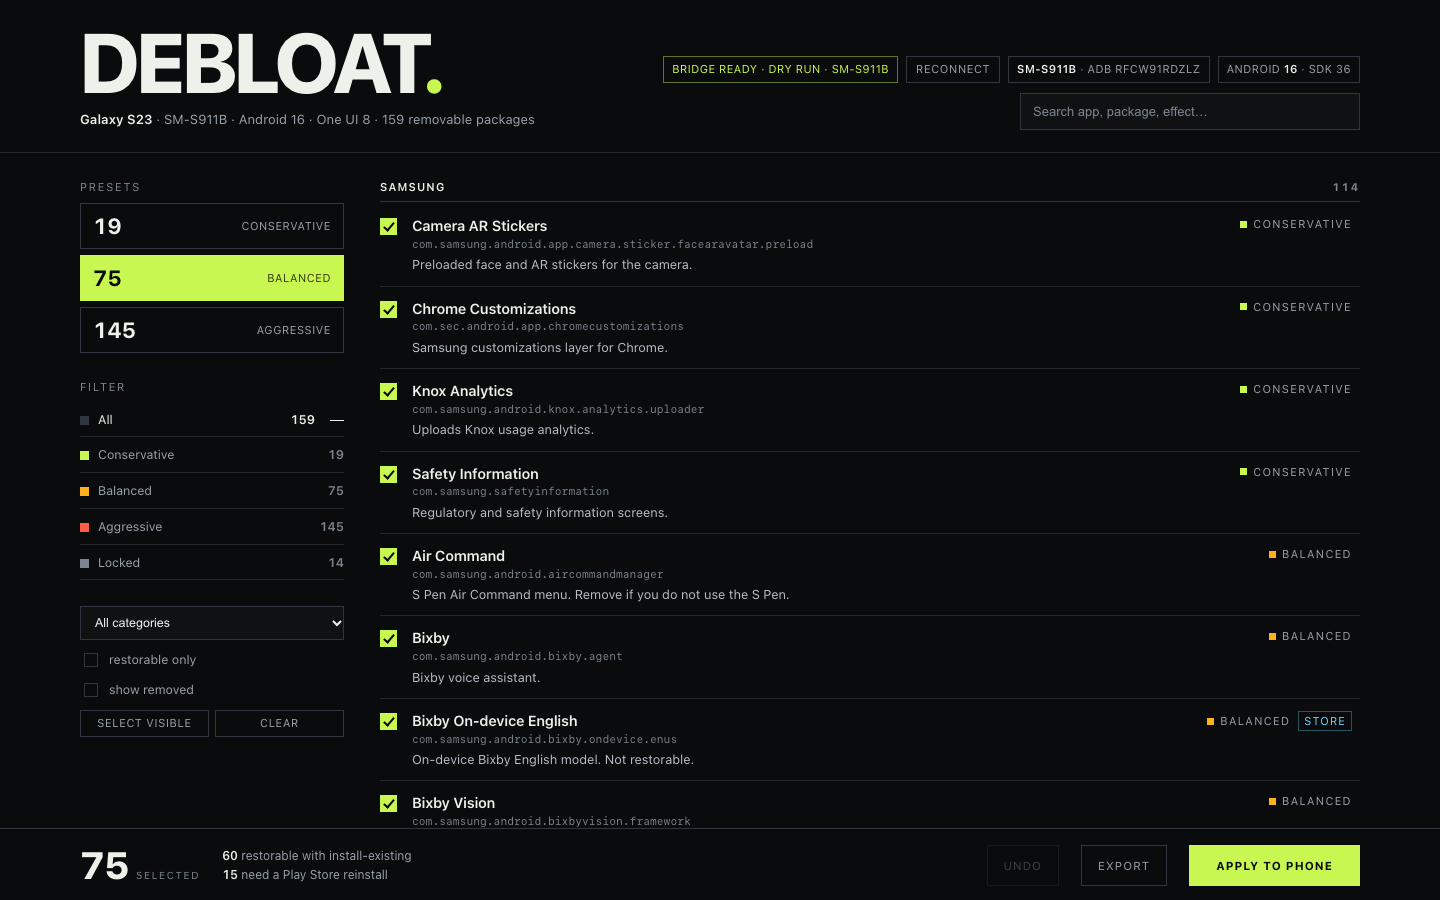
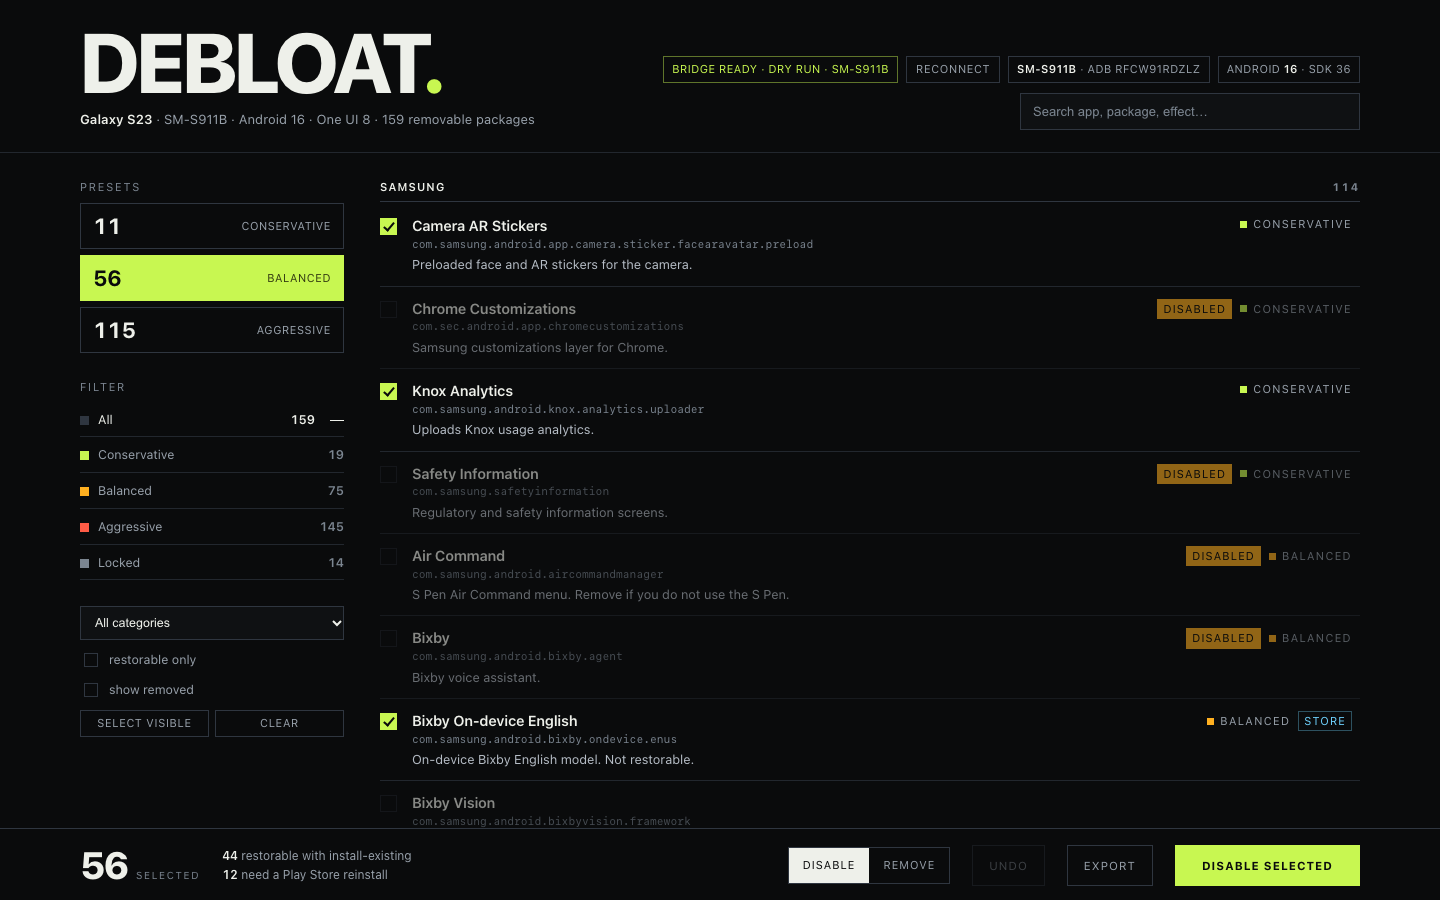
feat(web): disable or remove — both modes, disable by default
Disable hides the app for user 0 and is reversible with one command
(pm enable); remove uninstalls for the user and restores from the
factory copy (install-existing).

- bridge: action=disable|enable, same 20-package protection list
- /installed now returns the disabled set, so packages already off are
  marked and skipped by presets
- dock mode switch; CTA and confirmation copy change with the mode
- Undo calls the inverse action per package (enable / install-existing)
- preset counts are now live and exclude disabled/uninstalled rows

diff --git a/web/index.html b/web/index.html
@@ -108,7 +108,7 @@
     transition:opacity .18s}
   .row:hover{background:var(--ink2)}
   .row.locked{opacity:.55;cursor:default}
-  .row.done{opacity:.4}
+  .row.done{opacity:.55}
   .row input{appearance:none;width:17px;height:17px;margin:3px 0 0;border:1px solid var(--hair2);
     background:transparent;cursor:pointer;position:relative;flex:none;transition:border-color .12s}
   .row input:hover{border-color:var(--paper)}
@@ -158,6 +158,13 @@
     padding:11px 26px}
   .btn.apply:hover:not(:disabled){filter:brightness(1.08);color:#0a0b0c}
   .btn.apply:disabled{background:transparent;color:var(--mut2);border-color:var(--hair2)}
+
+  .modes{display:flex;border:1px solid var(--hair2)}
+  .modes button{padding:9px 14px;font-size:11px;letter-spacing:.09em;text-transform:uppercase;color:var(--mut)}
+  .modes button:hover{color:var(--paper)}
+  .modes button.on{background:var(--paper);color:var(--ink)}
+  .st.disabled{background:var(--amber);color:#0a0b0c}
+  .st.enabled{background:var(--cyan);color:#0a0b0c}
 
   /* ---------- dialogs ---------- */
   dialog{border:1px solid var(--hair2);background:var(--ink2);color:var(--paper);padding:0;
@@ -286,6 +293,10 @@
       <span><b id="storeCount">0</b> need a Play Store reinstall<span id="opStatus"></span></span>
     </div>
     <div class="spacer"></div>
+    <div class="modes" role="group" aria-label="Apply mode">
+      <button id="mDisable" class="on" title="Hide the app for this user. Re-enable in one click.">Disable</button>
+      <button id="mRemove" title="Uninstall for this user. Restore from the factory copy.">Remove</button>
+    </div>
     <button class="btn" id="undo" disabled>Undo</button>
     <button class="btn" id="export" disabled>Export</button>
     <button class="btn apply" id="apply" disabled>Apply to phone</button>
@@ -316,7 +327,8 @@ const DATA = [{"p":"com.samsung.android.app.camera.sticker.facearavatar.preload"
 const TOKEN = new URLSearchParams(location.search).get("t") || "";
 const LEVEL = {0:"Locked",1:"Conservative",2:"Balanced",3:"Aggressive"};
 const S = {sel:new Set(), status:new Map(), tier:"all", cat:"all", q:"", restOnly:false,
-           showGone:false, installed:null, bridge:null, busy:false, lastRemoved:new Set()};
+           showGone:false, installed:null, disabled:null, bridge:null, busy:false,
+           mode:"disable", lastChanged:new Map()};
 const $ = s => document.querySelector(s);
 const esc = s => String(s).replace(/[&<>"]/g, m => ({"&":"&amp;","<":"&lt;",">":"&gt;",'"':"&quot;"}[m]));
 const pkg = p => DATA.find(d => d.p === p);
@@ -347,7 +359,8 @@ function render(){
     list.appendChild(g);
     for (const d of items) {
       const st = S.status.get(d.p);
-      const gone = st === "removed" || (S.installed && !S.installed.has(d.p));
+      const off = S.disabled && S.disabled.has(d.p) && st !== "enabled";
+      const gone = st === "removed" || st === "disabled" || off || (S.installed && !S.installed.has(d.p));
       const row = document.createElement("label");
       row.className = "row" + (d.l === 0 ? " locked" : "") + (gone ? " done" : "");
       row.dataset.row = d.p;
@@ -357,8 +370,9 @@ function render(){
         '<div><div class="line1"><span class="nm">' + esc(d.n) + '</span>' +
           (d.l === 0 ? '<span class="tier t0"><i></i>locked</span>' : '') + '</div>' +
         '<div class="pk">' + esc(d.p) + '</div>' +
-        '<div class="desc">' + esc(d.d) + (gone && st !== "removed" ? ' <span class="warn">(already removed)</span>' : '') + '</div></div>' +
+        '<div class="desc">' + esc(d.d) + (st === "removed" || (S.installed && !S.installed.has(d.p)) ? '' : '') + '</div></div>' +
         '<div class="side">' + badge(d) +
+          (off && !st ? '<span class="st show disabled">disabled</span>' : '') +
           '<span class="tier t' + d.l + '"><i></i>' + LEVEL[d.l] + '</span>' +
           (d.r ? '' : '<span class="store">store</span>') +
         '</div>';
@@ -382,10 +396,22 @@ function updateUI(){
   $("#storeCount").textContent = sel.filter(d => !d.r).length;
   $("#apply").disabled = !(S.bridge && S.bridge.ok && S.bridge.device && S.bridge.device.connected) || S.busy || !sel.length;
   $("#export").disabled = S.busy || !sel.length;
-  $("#undo").disabled = S.busy || !S.lastRemoved.size;
-  $("#undo").textContent = S.lastRemoved.size ? "Undo " + S.lastRemoved.size : "Undo";
-  $("#apply").textContent = S.busy ? "Working…" : "Apply to phone";
+  $("#undo").disabled = S.busy || !S.lastChanged.size;
+  $("#undo").textContent = S.lastChanged.size ? "Undo " + S.lastChanged.size : "Undo";
+  $("#apply").textContent = S.busy ? "Working…" : (S.mode === "disable" ? "Disable selected" : "Remove selected");
   $("#opStatus").textContent = S.busy ? " · don't unplug the phone" : "";
+  refreshPresetCounts();
+}
+function presetCount(level){
+  return DATA.filter(d => d.l > 0 && d.l <= level &&
+    !(S.installed && !S.installed.has(d.p)) && !(S.disabled && S.disabled.has(d.p))).length;
+}
+function refreshPresetCounts(){
+  document.querySelectorAll(".presets button").forEach(b => {
+    const n = presetCount(+b.dataset.level);
+    const el = b.querySelector("b");
+    if (el) el.textContent = n;
+  });
 }
 function setProgress(done, total){
   $("#prog").style.width = total ? (100 * done / total) + "%" : "0";
@@ -411,45 +437,74 @@ async function applySet(pkgs, action){
     const res = await post(action, [p]);
     const r = res && res.results && res.results[0];
     if (!r) { S.status.set(p, "error"); render(); toast("Bridge connection lost"); S.busy = false; updateUI(); return; }
-    if (r.ok && action === "remove") {
-      S.status.set(p, "removed"); S.sel.delete(p); S.lastRemoved.add(p);
-      if (S.installed) S.installed.delete(p); ok++;
-    } else if (r.ok) {
-      S.status.set(p, "restored"); S.lastRemoved.delete(p);
-      if (S.installed) S.installed.add(p); ok++;
+    if (r.ok) {
+      ok++;
+      S.lastChanged.set(p, action);
+      if (action === "disable") {
+        S.status.set(p, "disabled"); S.sel.delete(p);
+        if (!S.disabled) S.disabled = new Set(); S.disabled.add(p);
+      } else if (action === "enable") {
+        S.status.set(p, "enabled"); if (S.disabled) S.disabled.delete(p);
+      } else if (action === "remove") {
+        S.status.set(p, "removed"); S.sel.delete(p); if (S.installed) S.installed.delete(p);
+      } else {
+        S.status.set(p, "restored"); if (S.installed) S.installed.add(p);
+      }
     } else {
       S.status.set(p, r.msg === "protected by the bridge" ? "error" : "skipped");
     }
     paintRow(p); setProgress(i + 1, pkgs.length);
   }
   S.busy = false; setProgress(0, 0); updateUI();
-  toast((action === "remove" ? "Removed " : "Restored ") + ok + " of " + pkgs.length);
+  const verb = {remove:"Removed", restore:"Restored", disable:"Disabled", enable:"Enabled"}[action];
+  toast(verb + " " + ok + " of " + pkgs.length);
   render();
 }
 function confirmApply(){
   const sel = DATA.filter(d => S.sel.has(d.p));
   const store = sel.filter(d => !d.r), crit = sel.filter(d => d.l === 3);
-  $("#cBody").innerHTML =
-    "<p><b>" + sel.length + " packages</b> will be removed for the current user on <b>" +
-    esc(S.bridge && S.bridge.device ? S.bridge.device.model + " · " + S.bridge.device.serial : "the phone") +
-    "</b>. The system partition keeps every APK, so Undo can restore them.</p><ul>" +
-    "<li>" + sel.filter(d => d.r).length + " restorable with install-existing</li>" +
-    (store.length ? "<li class='warn'>" + store.length + " need a Play Store reinstall: " +
-      store.slice(0, 6).map(d => esc(d.n)).join(", ") + (store.length > 6 ? "…" : "") + "</li>" : "") +
-    (crit.length ? "<li class='warn'>" + crit.length + " deep cuts — check alarms, camera and calls afterwards</li>" : "") +
-    "</ul>";
+  const disable = S.mode === "disable";
+  const dev = S.bridge && S.bridge.device ? S.bridge.device.model + " · " + S.bridge.device.serial : "the phone";
+  $("#cTitle").textContent = (disable ? "Disable " : "Remove ") + sel.length + " apps";
+  $("#cGo").textContent = disable ? "Disable now" : "Remove now";
+  $("#cBody").innerHTML = disable
+    ? "<p><b>" + sel.length + " packages</b> will be <b>disabled</b> for the current user on <b>" + esc(dev) +
+      "</b>. Nothing is uninstalled: data stays, icons disappear, and Enable brings each one back instantly.</p><ul>" +
+      "<li>One command to restore: <code>pm enable</code></li>" +
+      (store.length ? "<li>" + store.length + " are Play Store apps — disabling works, reinstalling is not needed</li>" : "") +
+      (crit.length ? "<li class='warn'>" + crit.length + " deep cuts — check alarms, camera and calls afterwards</li>" : "") +
+      "</ul>"
+    : "<p><b>" + sel.length + " packages</b> will be <b>uninstalled for the current user</b> on <b>" + esc(dev) +
+      "</b>. The system partition keeps each factory APK, so Undo can restore them.</p><ul>" +
+      "<li>" + sel.filter(d => d.r).length + " restorable with install-existing</li>" +
+      (store.length ? "<li class='warn'>" + store.length + " need a Play Store reinstall: " +
+        store.slice(0, 6).map(d => esc(d.n)).join(", ") + (store.length > 6 ? "…" : "") + "</li>" : "") +
+      (crit.length ? "<li class='warn'>" + crit.length + " deep cuts — check alarms, camera and calls afterwards</li>" : "") +
+      "</ul>";
   $("#confirm").showModal();
 }
 $("#cGo").addEventListener("click", () => {
   const list = DATA.filter(d => S.sel.has(d.p)).map(d => d.p);
   $("#confirm").close();
-  if (list.length) applySet(list, "remove");
+  if (list.length) applySet(list, S.mode);
 });
 ["cCancel","cCancel2"].forEach(id => $("#" + id).addEventListener("click", () => $("#confirm").close()));
 $("#apply").addEventListener("click", confirmApply);
-$("#undo").addEventListener("click", () => { const l = [...S.lastRemoved]; if (l.length) applySet(l, "restore"); });
+$("#undo").addEventListener("click", async () => {
+  const jobs = [...S.lastChanged].map(([p, a]) => [p, a === "disable" ? "enable" : a === "remove" ? "restore" : a]);
+  S.lastChanged.clear(); updateUI();
+  for (const [p, inv] of jobs) await applySet([p], inv);
+});
+$("#mDisable").addEventListener("click", () => setMode("disable"));
+$("#mRemove").addEventListener("click", () => setMode("remove"));
+function setMode(m){
+  S.mode = m;
+  $("#mDisable").classList.toggle("on", m === "disable");
+  $("#mRemove").classList.toggle("on", m === "remove");
+  updateUI();
+}
 $("#clear").addEventListener("click", () => { S.sel.clear(); document.querySelectorAll(".presets button").forEach(b => b.classList.remove("on")); render(); });
-$("#selVisible").addEventListener("click", () => { visible().forEach(d => { if (d.l !== 0 && !(S.installed && !S.installed.has(d.p))) S.sel.add(d.p); }); render(); });
+$("#selVisible").addEventListener("click", () => { visible().forEach(d => { if (d.l !== 0 && !(S.installed && !S.installed.has(d.p)) && !(S.disabled && S.disabled.has(d.p))) S.sel.add(d.p); }); render(); });
 $("#q").addEventListener("input", e => { S.q = e.target.value.trim().toLowerCase(); render(); });
 $("#cat").addEventListener("change", e => { S.cat = e.target.value; render(); });
 $("#restOnly").addEventListener("change", e => { S.restOnly = e.target.checked; render(); });
@@ -468,7 +523,8 @@ $("#list").addEventListener("change", e => {
 });
 function preset(level){
   S.sel.clear();
-  DATA.forEach(d => { if (d.l > 0 && d.l <= level && !(S.installed && !S.installed.has(d.p))) S.sel.add(d.p); });
+  DATA.forEach(d => { if (d.l > 0 && d.l <= level && !(S.installed && !S.installed.has(d.p)) &&
+      !(S.disabled && S.disabled.has(d.p))) S.sel.add(d.p); });
   document.querySelectorAll(".presets button").forEach(b => b.classList.toggle("on", +b.dataset.level === level));
   render();
 }
@@ -531,7 +587,11 @@ async function probe(manual){
     else if (!h.device || !h.device.connected) { S.bridge = h; paintBridge("nodevice"); }
     else {
       S.bridge = h;
-      try { const i = await (await fetch("installed", {cache:"no-store"})).json(); if (i && i.packages) S.installed = new Set(i.packages); } catch (e) {}
+      try {
+        const i = await (await fetch("installed", {cache:"no-store"})).json();
+        if (i && i.packages) S.installed = new Set(i.packages);
+        if (i && i.disabled) S.disabled = new Set(i.disabled);
+      } catch (e) {}
       paintBridge();
     }
   } catch (e) { S.bridge = null; paintBridge("offline"); }

diff --git a/web/server.py b/web/server.py
@@ -106,6 +106,14 @@ def apply_one(serial, action, pkg):
         code, out = adb("shell", "pm", "uninstall", "-k", "--user", "0", pkg, serial=serial)
         ok = "Success" in out
         return ok, ("removed" if ok else "not removable") if not ARGS.dry_run else out
+    if action == "disable":
+        code, out = adb("shell", "pm", "disable-user", "--user", "0", pkg, serial=serial)
+        ok = "disabled" in out.lower()
+        return ok, "disabled" if ok else "not disableable"
+    if action == "enable":
+        code, out = adb("shell", "pm", "enable", "--user", "0", pkg, serial=serial)
+        ok = "enabled" in out.lower()
+        return ok, "enabled" if ok else "not enabled"
     code, out = adb("shell", "cmd", "package", "install-existing", pkg, serial=serial)
     ok = "installed for user" in out.lower()
     return ok, ("restored" if ok else "no factory copy") if not ARGS.dry_run else out
@@ -145,7 +153,9 @@ class Handler(BaseHTTPRequestHandler):
                 return
             _, out = run(["adb", "-s", serial, "shell", "pm", "list", "packages"])
             pkgs = sorted({ln.strip()[8:] for ln in out.splitlines() if ln.startswith("package:")})
-            self.send_json({"ok": True, "count": len(pkgs), "packages": pkgs})
+            _, dout = run(["adb", "-s", serial, "shell", "pm", "list", "packages", "-d"])
+            disabled = sorted({ln.strip()[8:] for ln in dout.splitlines() if ln.startswith("package:")})
+            self.send_json({"ok": True, "count": len(pkgs), "packages": pkgs, "disabled": disabled})
             return
         if u.path == "/health":
             tok = parse_qs(u.query).get("t", [""])[0]
@@ -170,8 +180,8 @@ class Handler(BaseHTTPRequestHandler):
             return
         action = payload.get("action")
         pkgs = payload.get("packages") or []
-        if action not in ("remove", "restore"):
-            self.send_json({"ok": False, "error": "action must be remove or restore"}, 400)
+        if action not in ("remove", "restore", "disable", "enable"):
+            self.send_json({"ok": False, "error": "action must be remove, restore, disable or enable"}, 400)
             return
         if not isinstance(pkgs, list) or not pkgs or len(pkgs) > MAX_PACKAGES:
             self.send_json({"ok": False, "error": "1..%d packages required" % MAX_PACKAGES}, 400)
@@ -186,7 +196,7 @@ class Handler(BaseHTTPRequestHandler):
                 if not isinstance(pkg, str) or not PKG.match(pkg):
                     results.append({"pkg": str(pkg), "ok": False, "msg": "invalid package name"})
                     continue
-                if action == "remove" and pkg in DENY:
+                if action in ("remove", "disable") and pkg in DENY:
                     results.append({"pkg": pkg, "ok": False, "msg": "protected by the bridge"})
                     continue
                 ok, msg = apply_one(serial, action, pkg)
